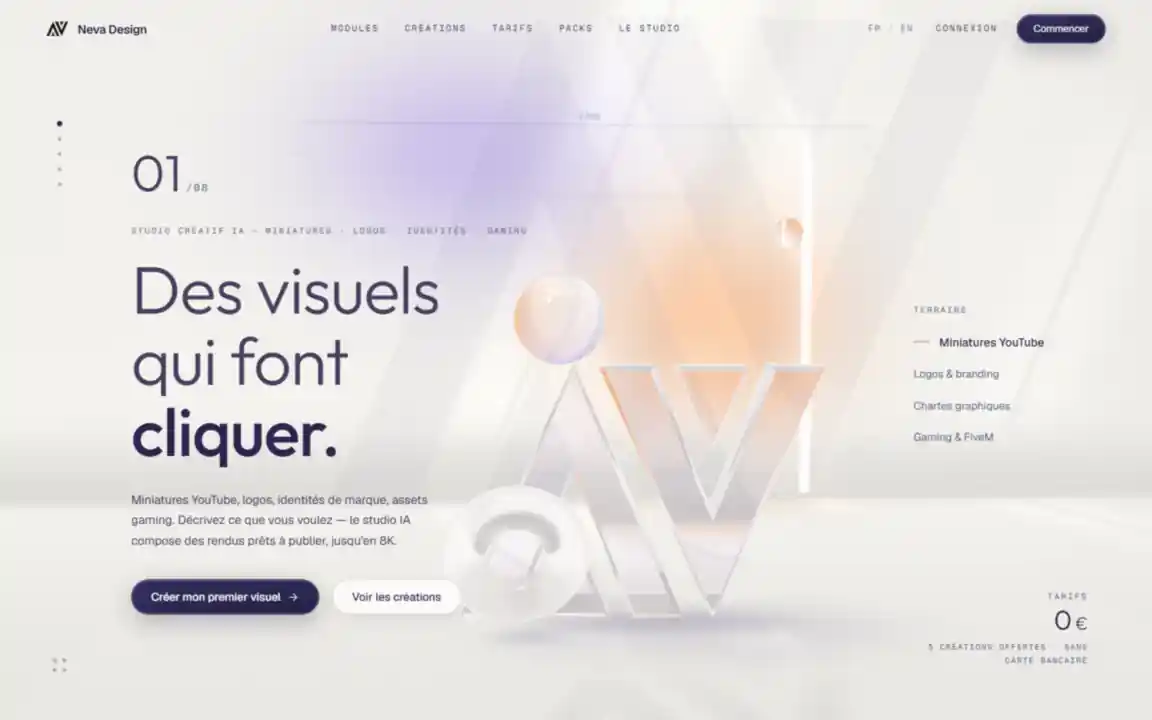
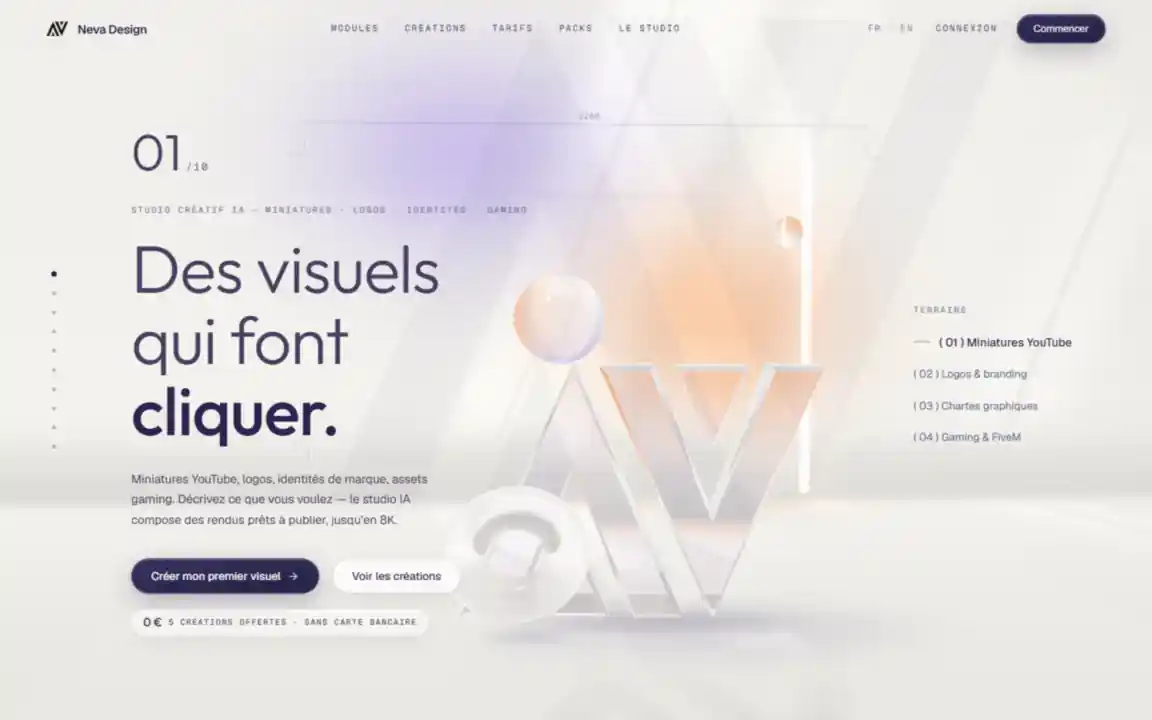
Preuves finales — fix perf du fondu d'horizon, posters, mesures
Le fondu d'horizon appelait wallColor par pixel de sol : ligne de
base pré-calculée (lecture par index) + textures 2048/1536 — long
tasks à l'idle : zéro > 200 ms (GPU réel), 101 fps sur le hero,
CLS 0, peinture au chargement 1,6 + 0,9 s sous le rideau du loader.
Posters re-bakés 11,5/12,0 Ko. Halo final ΔE 12,6/8,9 (C 0,058/
0,062), seam 1,68/0,47 niv/px sur captures définitives.

diff --git a/src/components/givre/GlassSculpture.tsx b/src/components/givre/GlassSculpture.tsx
@@ -103,10 +103,10 @@ const WALL_W = 22;
 const WALL_TOP = FLOOR_Y + 11; // 9.28
 const FLOOR_D = 17.5; // z ∈ [WALL_Z, WALL_Z + 17.5]
 
-const WALL_TEX_W = 2560;
-const WALL_TEX_H = Math.round((WALL_TEX_W * 11) / WALL_W); // 1280
-const FLOOR_TEX_W = 1792;
-const FLOOR_TEX_H = Math.round((FLOOR_TEX_W * FLOOR_D) / WALL_W); // ≈ 1425
+const WALL_TEX_W = 2048;
+const WALL_TEX_H = Math.round((WALL_TEX_W * 11) / WALL_W); // 1024
+const FLOOR_TEX_W = 1536;
+const FLOOR_TEX_H = Math.round((FLOOR_TEX_W * FLOOR_D) / WALL_W); // ≈ 1222
 
 /* La sculpture vit autour de x = SCULPT_X, posée au sol. Les
    positions des satellites sont partagées avec le peintre du sol
@@ -452,13 +452,25 @@ function floorColor(wx: number, wz: number): [number, number, number] {
 
   /* Fondu d'horizon (anti-seam) : en perspective rasante, l'écran
      colle le sol LOINTAIN contre le bas du mur — les deux doivent
-     porter la même valeur AU MÊME x. Le sol converge donc vers la
-     couleur exacte de la base du mur (halo compris). Preuve visée :
-     dérivée verticale < 2 niveaux/px sur toute colonne. */
+     porter la même valeur AU MÊME x. Le sol converge vers la
+     couleur exacte de la base du mur (halo compris), lue dans la
+     ligne PRÉ-CALCULÉE (un appel wallColor par pixel gelait le
+     main thread ~9 s). Preuve : dérivée < 2 niveaux/px. */
   const horizon = smoothstep(6.5, FLOOR_D - 1.6, d);
-  if (horizon > 0.001) {
-    const wc = wallColor(wx, FLOOR_Y + 0.02);
-    mix3(col, wc as unknown as readonly number[], horizon * 0.97);
+  if (horizon > 0.001 && wallBottomRow) {
+    const i =
+      Math.max(
+        0,
+        Math.min(
+          FLOOR_TEX_W - 1,
+          Math.round(((wx - WALL_X0) / WALL_W) * (FLOOR_TEX_W - 1))
+        )
+      ) * 3;
+    mix3(
+      col,
+      [wallBottomRow[i], wallBottomRow[i + 1], wallBottomRow[i + 2]],
+      horizon * 0.97
+    );
   }
 
   return [
@@ -760,9 +772,26 @@ function drawMonogramReflection(canvas: HTMLCanvasElement) {
   ctx.restore();
 }
 
+/* La ligne de base du mur, pré-calculée colonne par colonne : le
+   fondu d'horizon du sol la lit par index. */
+let wallBottomRow: Float32Array | null = null;
+function buildWallBottomRow() {
+  if (wallBottomRow) return;
+  const row = new Float32Array(FLOOR_TEX_W * 3);
+  for (let i = 0; i < FLOOR_TEX_W; i++) {
+    const wx = WALL_X0 + (i / (FLOOR_TEX_W - 1)) * WALL_W;
+    const c = wallColor(wx, FLOOR_Y + 0.02);
+    row[i * 3] = c[0];
+    row[i * 3 + 1] = c[1];
+    row[i * 3 + 2] = c[2];
+  }
+  wallBottomRow = row;
+}
+
 let floorTexture: THREE.CanvasTexture | null = null;
 function getFloorTexture() {
   if (!floorTexture) {
+    buildWallBottomRow();
     const canvas = paintCanvas(FLOOR_TEX_W, FLOOR_TEX_H, (u, v) =>
       /* v=1 ↔ fond du sol (contre le mur, z = WALL_Z) */
       floorColor(WALL_X0 + u * WALL_W, WALL_Z + (1 - v) * FLOOR_D)
